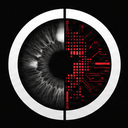
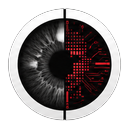
아이콘 변경

diff --git a/apps/frontend/index.html b/apps/frontend/index.html
@@ -2,7 +2,7 @@
 <html lang="ko">
   <head>
     <meta charset="UTF-8" />
-    <link rel="icon" type="image/svg+xml" href="/favicon.svg" />
+    <link rel="icon" type="image/png" href="/zeteo-o.png" />
     <meta name="viewport" content="width=device-width, initial-scale=1.0, maximum-scale=1.0, user-scalable=no" />
     <link rel="preconnect" href="https://fonts.googleapis.com" />
     <link rel="preconnect" href="https://fonts.gstatic.com" crossorigin />
